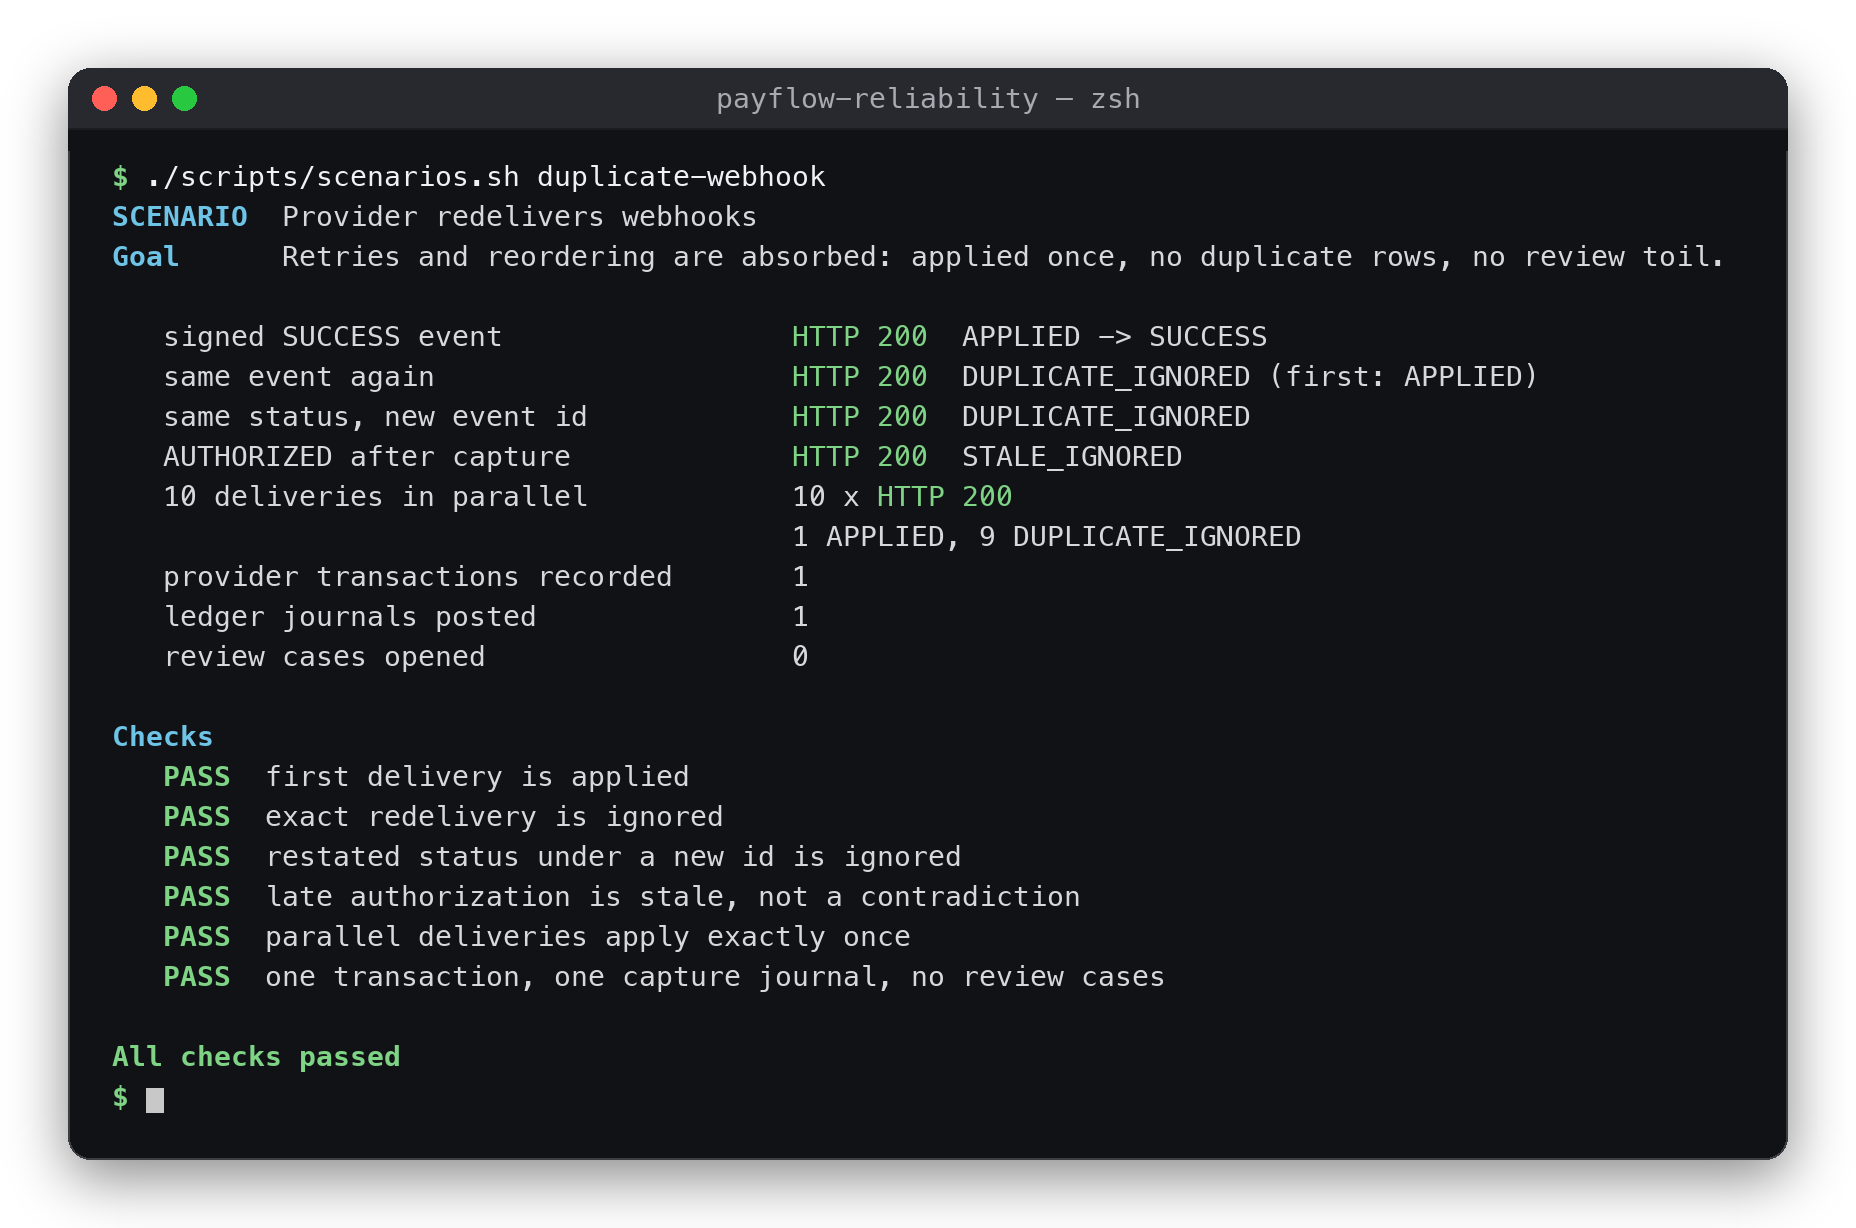
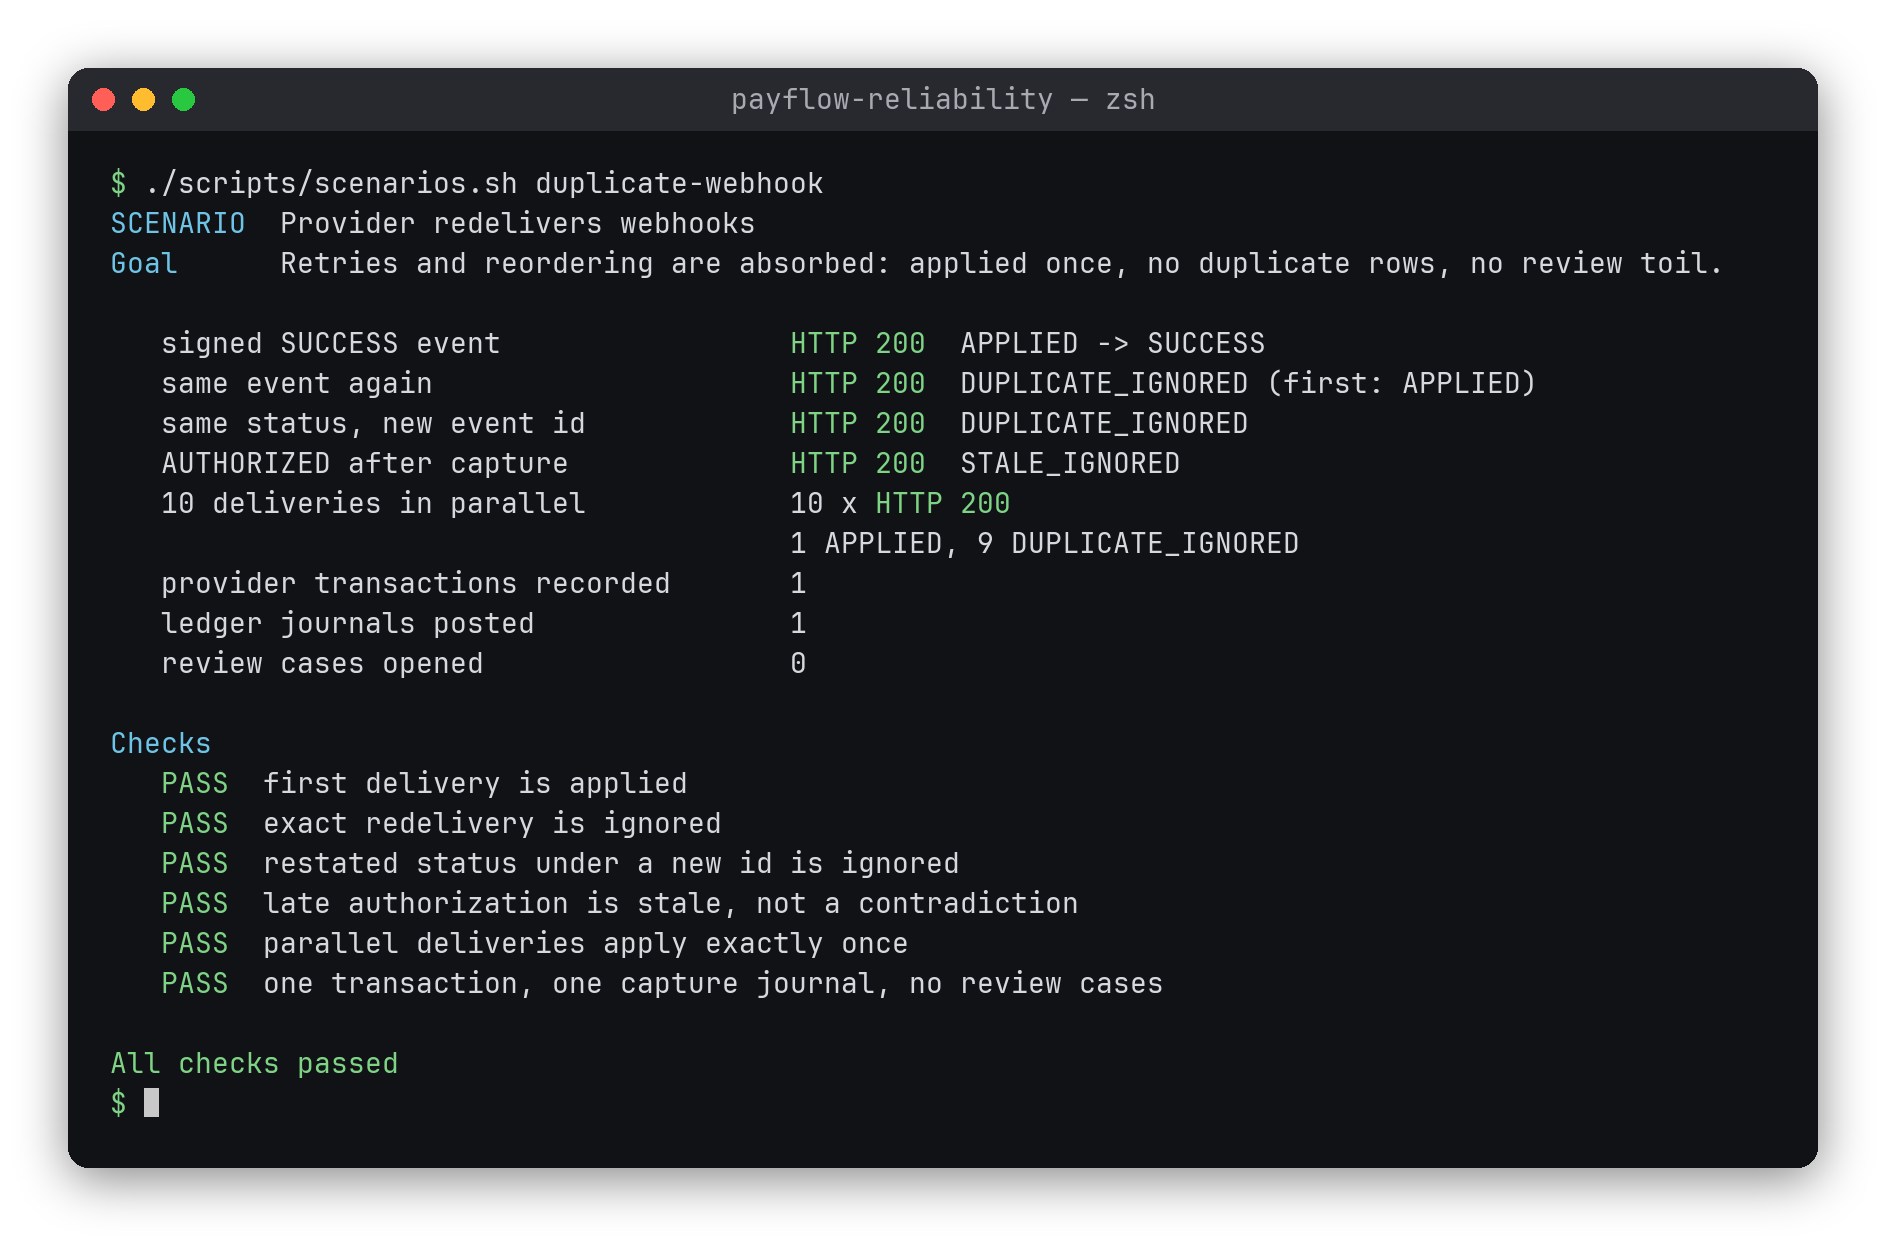
docs(cases): follow the payment case's money to the bank statement
The repository now proves settlement past the provider's word, so the
case does too. Its exhibits become the redelivered webhook applied once,
an outbound key derived once from its operation surviving a provider that
refunds and then times out, a payout that lands only on a bank credit
matching reference, amount and value date, and a seeded chaos run after
which all twelve money rules hold. The decision names the outbound key
and the bank credit, and the limits say what is simulated: the provider,
the bank and the customers, one currency per payout, and payouts that
stop at the settlement account.

diff --git a/lib/scenarios.ts b/lib/scenarios.ts
@@ -66,14 +66,14 @@ export const scenarios: Scenario[] = [
     number: "01",
     shortTitle: "A payment callback arrived twice",
     title: "The same payment callback arrived twice",
-    consequence: "The second delivery must not move the payment again, and the books must still agree with the payout and the provider's report.",
+    consequence: "The second delivery must not move the payment again, and its money must still be traced from capture to the bank statement.",
     premise:
-      "The first delivery completes the payment. The second should be recorded without repeating the change. A duplicate check alone isn't enough: retries need keys that refuse a changed request, every change needs a ledger entry, and every payout needs a verdict from the provider's report.",
+      "The first delivery completes the payment. The second should be recorded without repeating the change. A duplicate check alone isn't enough: retries need keys that refuse a changed request, every change needs a ledger entry, and a payout counts only when the bank statement shows it landed.",
     repo: "https://github.com/fattah247/payflow-reliability",
     technology: "Java 21 · Spring Boot · PostgreSQL · Flyway · Prometheus · Docker",
     baselineLabel: "Without a duplicate check",
     designedLabel: "With a duplicate check",
-    decision: "Check the callback ID before changing the payment, refuse a reused key with a different request, and reconcile every payout against the provider's report.",
+    decision: "Check the callback ID before changing the payment, derive each outbound key once from its operation, and land a payout only on a matching bank credit.",
     outcome: "Two deliveries are recorded. The payment changes once.",
     outcomeNodeId: "state",
     dependencies: {
@@ -121,26 +121,26 @@ export const scenarios: Scenario[] = [
         focus: "Applied once; repeats acknowledged",
       },
       {
-        src: "/projects/payflow/04-idempotency-replay.png",
-        alt: "Payflow idempotency scenario output: a retry replays the original payment, the same key with a different payload is rejected with HTTP 422, and eight parallel retries create one payment",
-        caption: "A retry with the same key replays the original payment. The same key with a changed body is refused, and eight parallel retries still create one payment.",
-        focus: "A reused key with a changed request is refused",
+        src: "/projects/payflow/15-outbound-key-crash.png",
+        alt: "Payflow outbound-key scenario output: the provider refunds and then times out, the worker looks the derived key up instead of resending, the refund is applied once, and the payout under its batch key is sent once",
+        caption: "The provider refunds, then answers too late. The outbound key comes from the refund, not the attempt, so the worker looks it up instead of resending: refunded once, and the payout under its batch key is sent once.",
+        focus: "One operation, one outbound key",
       },
       {
-        src: "/projects/payflow/07-settlement-batch.png",
-        alt: "Payflow settlement scenario output: four parallel settlement runs create one batch, captures minus refunds pay out 5,500 IDR net, a held payment waits, and the ledger owes nothing afterwards",
-        caption: "Four settlement runs race and exactly one batch pays out: captures minus refunds, 5,500 IDR net. A held payment waits for a decision, and afterwards the ledger owes the merchant nothing.",
-        focus: "Paid out once, net of refunds",
+        src: "/projects/payflow/16-three-way-reconciliation.png",
+        alt: "Payflow bank-reconciliation scenario output: the provider's report alone reconciles nothing, the payout stays in transit until a bank credit matches its reference, amount and value date, and only then are the payments reconciled",
+        caption: "The provider's report alone reconciles nothing. The payout lands only when a bank credit matches its reference, amount and value date, gross minus the fee equals what arrived (750,000 − 2,250 = 747,750 IDR), and only then are the payments reconciled.",
+        focus: "Landed only on a matching bank credit",
       },
       {
-        src: "/projects/payflow/08-reconciliation-mismatch.png",
-        alt: "Payflow reconciliation scenario output: each row of the provider's report gets a verdict, a payout missing from the report is flagged, only the clean match is reconciled, and re-importing opens no new cases",
-        caption: "The provider's report is checked both ways: every row gets a verdict, a payout the provider didn't report is flagged, only the clean match is reconciled, and re-importing the report opens no new cases.",
-        focus: "Every payout gets a verdict",
+        src: "/projects/payflow/23-chaos-money-rules.png",
+        alt: "Payflow chaos scenario output: a seeded run of 150 steps with lost and doubled webhooks, provider timeouts, racing payouts, bank faults, slowness and risky devices, after which all twelve money rules hold",
+        caption: "A seeded run of 150 steps throws lost and doubled webhooks, provider timeouts, racing payouts, bank faults, slowness and risky devices at the running app. Afterwards all twelve money rules hold, from balanced books to payouts sent once.",
+        focus: "Twelve money rules hold under chaos",
       },
     ],
     limitation:
-      "This public lab is built from common payment engineering practice; it does not represent the systems, code, or business rules of any employer, past or present. The provider is simulated locally, and no bank statement closes the loop yet.",
+      "This public lab is built from common payment engineering practice; it does not represent the systems, code, or business rules of any employer, past or present. The provider, the bank and the customers are simulated, with one currency per payout, and payouts stop at the settlement account.",
   },
   {
     slug: "iyup",
